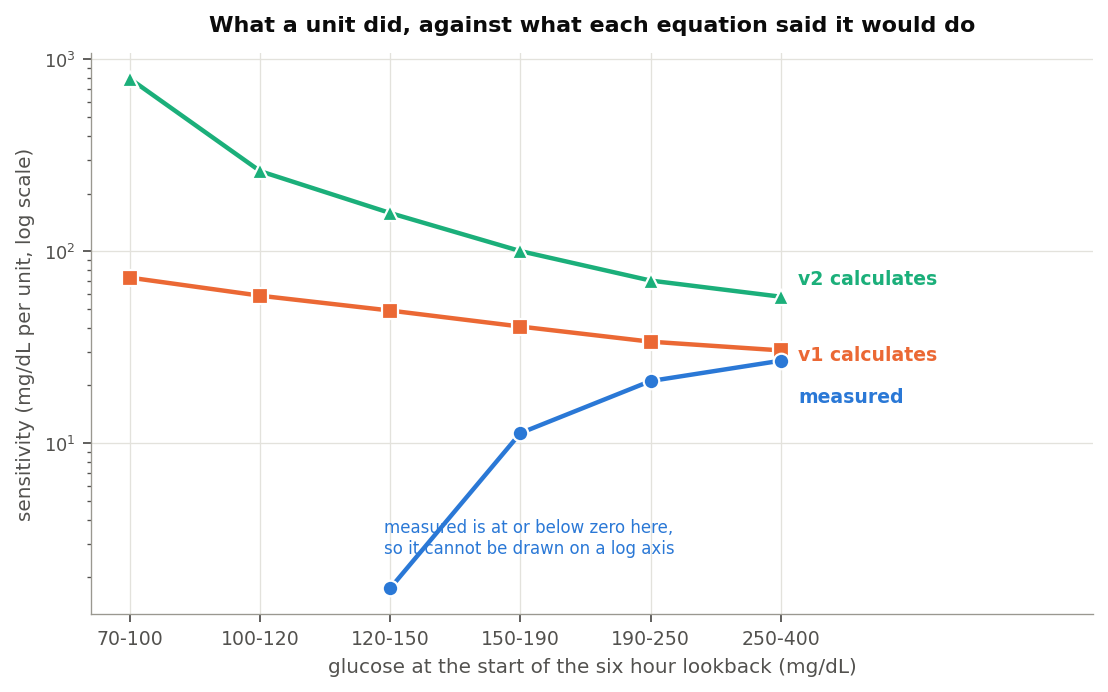
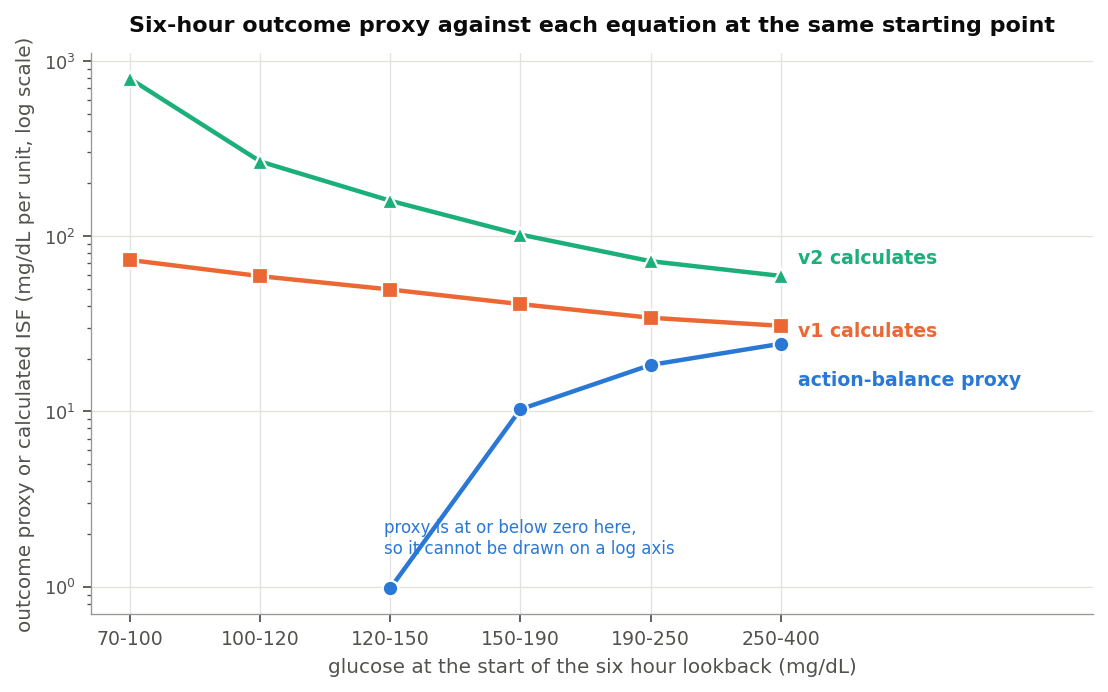
Correct same-time Dynamic ISF outcome comparisons

diff --git a/inv009/pointwise_isf.py b/inv009/pointwise_isf.py
@@ -1,4 +1,4 @@
-"""Effective sensitivity at every reading, against what the two equations say there.
+"""Six-hour action-balance outcome proxy against what the two equations say there.
 
 Everything else in this package fits a slope across a person's windows. This does
 the direct thing instead: at each reading, look back over one insulin duration,
@@ -33,8 +33,9 @@ import pandas as pd
 from inv008 import dynisf
 
 from . import action, config, db, grid as gridmod, insulin_models as M, tdd as tddmod
+from .forward_isf import _loop_model, schedule_units
 
-MODEL = "oref_6h75"
+MODEL_DEFAULT = "oref_6h75"
 LOOKBACK_MIN = 360           # one insulin duration
 STRIDE_MIN = 30              # readings are 5 min apart and lookbacks overlap heavily
 MIN_EXCESS_U = 0.30          # below this the denominator is noise
@@ -63,7 +64,8 @@ def analyse(job):
 
         n = len(g)
         back = int(LOOKBACK_MIN / config.GRID_MIN)
-        kern = M.kernel(MODEL)
+        model = _loop_model(subject_id) if study == "Loop" else MODEL_DEFAULT
+        kern = M.kernel(model)
         total = g.total_u.to_numpy(float)
         cgm = g.cgm.to_numpy(float)
         carbs = g.carbs_g.to_numpy(float)
@@ -74,9 +76,12 @@ def analyse(job):
         a_pre, a_in = action.window_action(total, kern, back)
         acted = a_pre + a_in
 
-        # The same quantity for this person's routine delivery, which is what
-        # cancels their hepatic output.
-        ref = action.reference_profile(g.ts, total)
+        # Use programmed basal as the reference where it exists. Temporary-basal
+        # changes and microboluses are algorithmic decisions, so they must remain
+        # in the excess-action term rather than being absorbed into "usual" basal.
+        # Only systems without a recoverable programme fall back to typical
+        # half-hourly delivery.
+        ref, baseline_source = schedule_units(g, subject_id, streams)
         r_pre, r_in = action.window_action(ref, kern, back)
         acted_ref = r_pre + r_in
 
@@ -132,6 +137,7 @@ def analyse(job):
         isf_eff = -(dg[sel] - typical_dg[sel]) / excess[sel]
         return pd.DataFrame({
             "subject_id": subject_id, "study": study,
+            "action_model": model, "baseline_source": baseline_source,
             "bg": bg, "tdd_blend": td, "tdd_u": subj["tdd_u"],
             "excess_u": excess[sel], "acted_u": acted_end[sel],
             "isf_eff": isf_eff,
@@ -173,12 +179,12 @@ def main() -> int:
                                       isf_v2=("isf_v2", "median"),
                                       tdd_u=("tdd_u", "first"))
     res["overall"] = {k: float(per[k].median()) for k in ("isf_eff", "isf_v1", "isf_v2")}
-    print("\nPer-person median sensitivity, mg/dL per unit")
-    print(f"  measured {res['overall']['isf_eff']:7.1f}    "
+    print("\nPer-person median outcome proxy, mg/dL per unit")
+    print(f"  proxy {res['overall']['isf_eff']:7.1f}    "
           f"v1 {res['overall']['isf_v1']:7.1f}    v2 {res['overall']['isf_v2']:7.1f}")
 
     print("\nBy glucose at the start of the lookback")
-    print(f"  {'glucose':>12s} {'people':>7s} {'measured':>9s} {'v1':>8s} {'v2':>8s}")
+    print(f"  {'glucose':>12s} {'people':>7s} {'proxy':>9s} {'v1':>8s} {'v2':>8s}")
     res["by_bg"] = []
     for lo, hi in BG_BANDS:
         d = D[(D.bg >= lo) & (D.bg < hi)]
@@ -191,8 +197,25 @@ def main() -> int:
         print(f"  {row['band']:>12s} {row['n']:7d} {row['isf_eff']:9.1f} "
               f"{row['isf_v1']:8.1f} {row['isf_v2']:8.1f}")
 
+    # Check the expected sign explicitly. If programmed basal balances endogenous
+    # glucose production, action above it should usually lower glucose and action
+    # below it should usually allow glucose to rise. The same signed proxy is
+    # positive in either case when that expectation is met.
+    for label, sign_mask in (("positive_excess", D.excess_u > 0),
+                             ("negative_excess", D.excess_u < 0)):
+        rows = []
+        for lo, hi in BG_BANDS:
+            d = D[sign_mask & (D.bg >= lo) & (D.bg < hi)]
+            pp = d.groupby("subject_id").isf_eff.median()
+            if len(pp) < 20:
+                continue
+            rows.append({"band": f"{lo}-{hi}", "n": int(len(pp)),
+                         "median_proxy": float(pp.median()),
+                         "fraction_people_positive": float((pp > 0).mean())})
+        res[f"by_bg_{label}"] = rows
+
     print("\nBy total daily dose")
-    print(f"  {'dose':>12s} {'people':>7s} {'measured':>9s} {'v1':>8s} {'v2':>8s}")
+    print(f"  {'TDD':>12s} {'people':>7s} {'proxy':>9s} {'v1':>8s} {'v2':>8s}")
     res["by_tdd"] = []
     for lo, hi in config.TDD_BANDS:
         d = D[(D.tdd_u >= lo) & (D.tdd_u < hi)]
@@ -211,9 +234,9 @@ def main() -> int:
         ratio = ratio[(ratio > 0) & (ratio < 100)]
         res[f"{name}_ratio_median"] = float(ratio.median())
         res[f"{name}_within_30pct"] = float(((ratio > 0.7) & (ratio < 1.3)).mean())
-    print(f"\n  v1 sits at {res['isf_v1_ratio_median']:.2f} times the measured value, "
+    print(f"\n  v1 sits at {res['isf_v1_ratio_median']:.2f} times the outcome proxy, "
           f"within 30% of it {100 * res['isf_v1_within_30pct']:.0f}% of the time")
-    print(f"  v2 sits at {res['isf_v2_ratio_median']:.2f} times the measured value, "
+    print(f"  v2 sits at {res['isf_v2_ratio_median']:.2f} times the outcome proxy, "
           f"within 30% of it {100 * res['isf_v2_within_30pct']:.0f}% of the time")
     (config.RESULTS / "inv009_pointwise.json").write_text(json.dumps(res, indent=2, default=float))
     return 0

diff --git a/inv009/figures.py b/inv009/figures.py
@@ -379,7 +379,7 @@ def fig_surface(out):
 
 
 def fig_pointwise(out):
-    """Sensitivity at each reading against what both equations say at the same reading."""
+    """Action-balance outcome proxy against both equations at the same reading."""
     r = json.loads((config.RESULTS / "inv009_pointwise.json").read_text())
     rows = r["by_bg"]
     bands = [x["band"] for x in rows]
@@ -387,7 +387,7 @@ def fig_pointwise(out):
     fig, ax = plt.subplots(figsize=(7.0, 4.4))
     series = (("isf_v2", "v2 calculates", C3, "^", 8),
               ("isf_v1", "v1 calculates", C2, "s", -2),
-              ("isf_eff", "measured", C1, "o", -16))
+              ("isf_eff", "action-balance proxy", C1, "o", -16))
     for key, label, col, mk, dy in series:
         vals = [v[key] for v in rows]
         # Values at or below zero cannot be drawn on a log axis and must not be
@@ -402,7 +402,7 @@ def fig_pointwise(out):
                     va="center", fontweight="semibold")
         first = min((i for i, v in enumerate(yy) if np.isfinite(v)), default=0)
         if first > 0:
-            ax.annotate("measured is at or below zero here,\nso it cannot be drawn on a log axis",
+            ax.annotate("proxy is at or below zero here,\nso it cannot be drawn on a log axis",
                         xy=(x[first] - 0.15, yy[first]), xytext=(6, 14),
                         textcoords="offset points", color=col, fontsize=7.5,
                         ha="left", va="bottom")
@@ -410,8 +410,8 @@ def fig_pointwise(out):
     ax.set_xticks(x); ax.set_xticklabels(bands, fontsize=8.5)
     ax.set_xlim(-0.3, len(bands) - 0.3 + 1.7)
     ax.set_xlabel("glucose at the start of the six hour lookback (mg/dL)")
-    ax.set_ylabel("sensitivity (mg/dL per unit, log scale)")
-    ax.set_title("What a unit did, against what each equation said it would do", pad=10)
+    ax.set_ylabel("outcome proxy or calculated ISF (mg/dL per unit, log scale)")
+    ax.set_title("Six-hour outcome proxy against each equation at the same starting point", pad=10)
     _despine(ax)
     fig.tight_layout(); fig.savefig(out, bbox_inches="tight"); plt.close(fig)
 

diff --git a/inv008/overnight_sensitivity.py b/inv008/overnight_sensitivity.py
@@ -201,18 +201,19 @@ def main():
     ax[0].hist(per_med, bins=24, color="#2ca02c", alpha=0.85)
     ax[0].axvline(np.median(per_med), color="k", ls="--", lw=1.5,
                   label=f"median {np.median(per_med):.0f}")
-    ax[0].set_xlabel("per-person median overnight sensitivity (mg/dL per U)")
-    ax[0].set_ylabel("people"); ax[0].set_title(f"Observed overnight sensitivity ({n} people)")
+    ax[0].set_xlabel("per-person median glucose fall / starting IOB (mg/dL per U)")
+    ax[0].set_ylabel("people"); ax[0].set_title(f"Overnight outcome ratio ({n} people)")
     ax[0].legend(fontsize=9); ax[0].grid(alpha=0.3)
     xc = BG_CENTRES
     yv = np.array([v if v is not None else np.nan for v in obs_norm])
-    ax[1].plot(xc, yv, "o-", color="#111", ms=7, lw=1.6, label="observed (overnight, normalised)", zorder=10)
+    ax[1].plot(xc, yv, "o-", color="#111", ms=7, lw=1.6,
+               label="outcome ratio (overnight, normalised)", zorder=10)
     ax[1].plot(xc, gq, "-", color="#1f77b4", lw=2.2, label="v-next g(BG) quartic")
     ax[1].plot(xc, g1, "--", color="#888", lw=1.6, label="v1 log")
     ax[1].plot(xc, g2, ":", color="#d62728", lw=1.6, label="v2 log")
     ax[1].axhline(1, color="k", lw=0.6, alpha=0.4); ax[1].axvline(TARGET, color="k", lw=0.6, alpha=0.4)
-    ax[1].set_xlabel("starting glucose BG(T) (mg/dL)"); ax[1].set_ylabel("sensitivity relative to target")
-    ttl = f"Sensitivity vs glucose (overnight, 4 h horizon)"
+    ax[1].set_xlabel("starting glucose BG(T) (mg/dL)"); ax[1].set_ylabel("outcome ratio relative to target")
+    ttl = f"Glucose fall / starting IOB vs glucose (overnight, 4 h)"
     if k_obs is not None:
         ttl += f"\nobserved exponent k≈{k_obs:.1f}  (quartic +1.3)"
     ax[1].set_title(ttl); ax[1].legend(fontsize=8); ax[1].grid(alpha=0.3)
